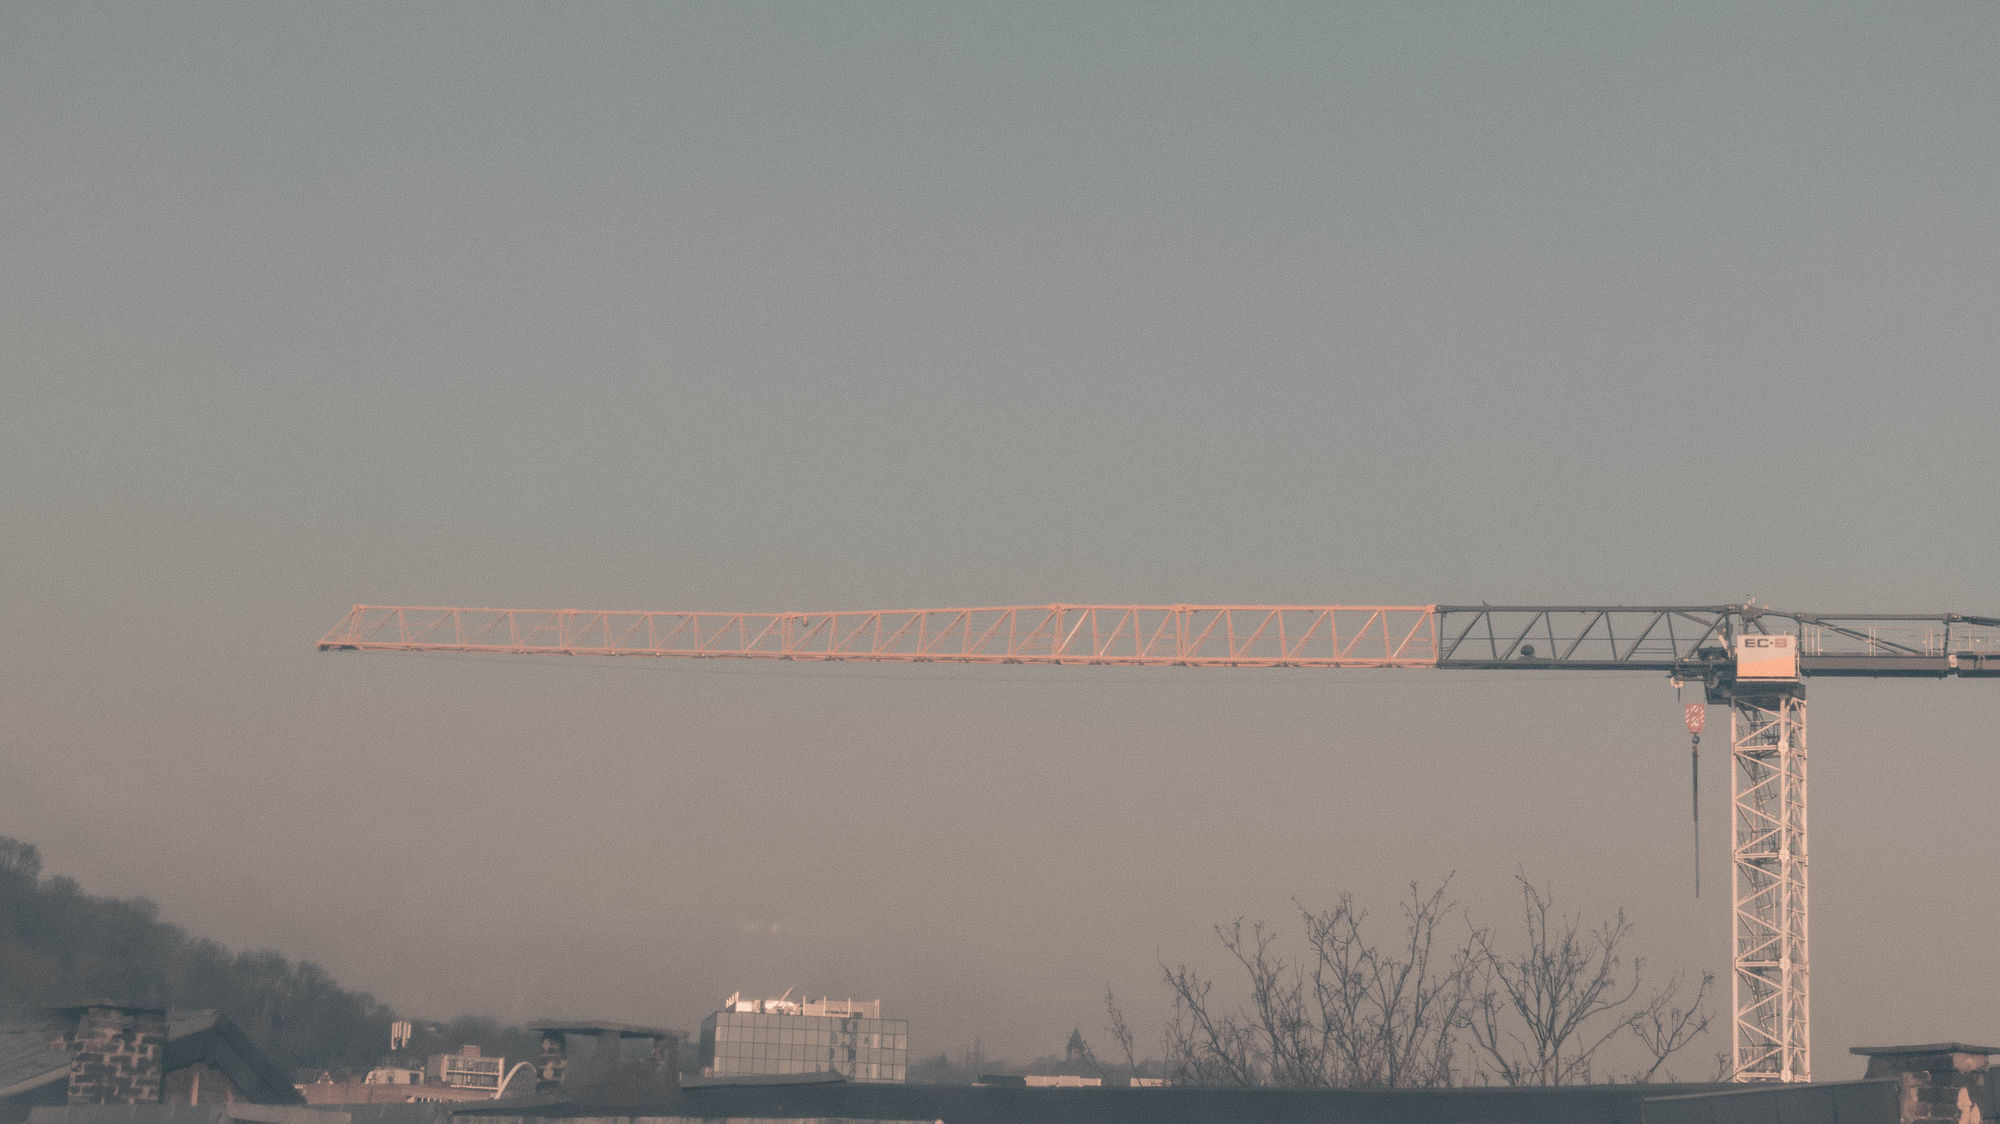
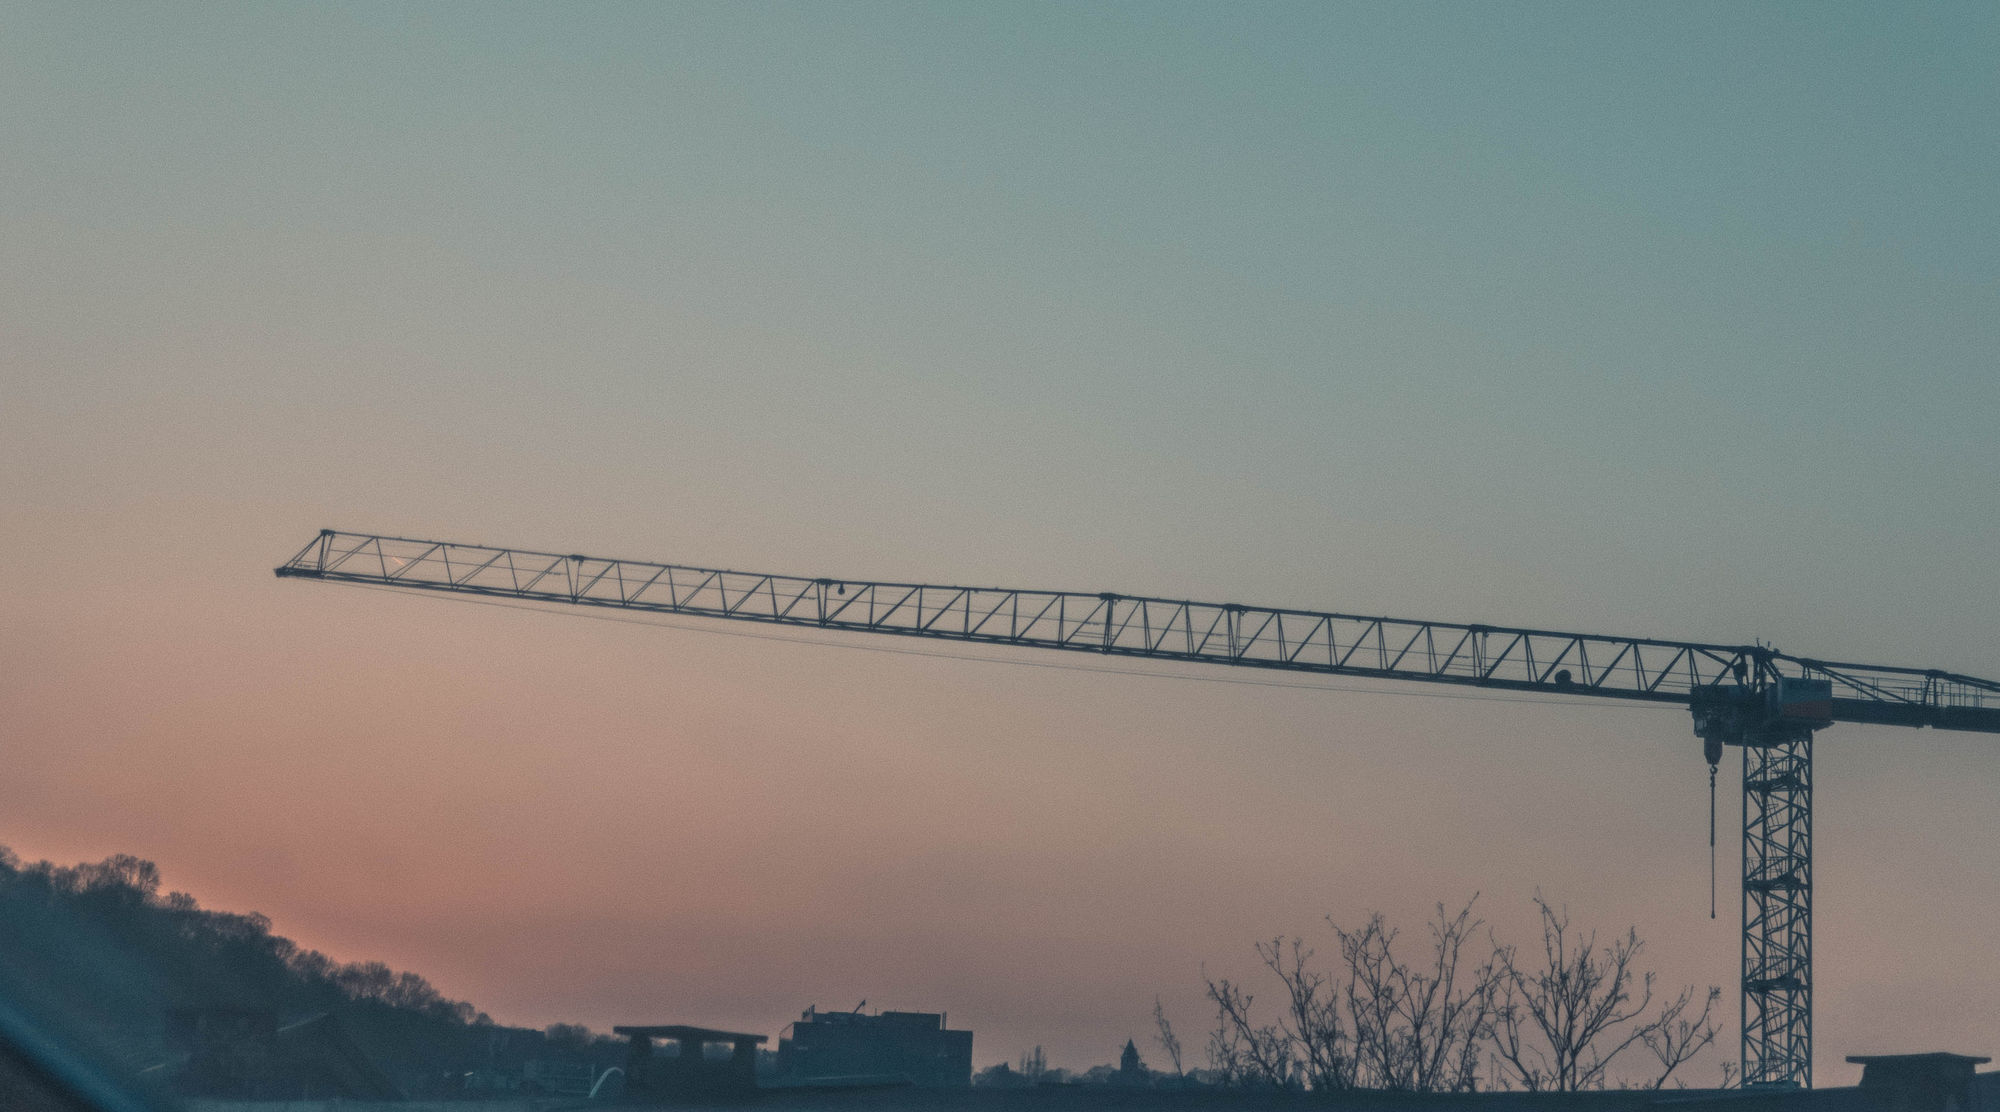
add and update bgs

diff --git a/js/builder.js b/js/builder.js
@@ -256,12 +256,14 @@ function loadCurrentBackground() {
     var current = (new Date()).getHours();
     var name;
     console.log(current);
-    if(current >= 8 && current < 10) {  name = "wakeup"; }
+    if(current >= 6 && current < 7) {  name = "sunrise"; }
+    else if(current >= 7 && current < 10) { name = "wakeup"; }
     else if(current >= 10 && current < 13) { name = "morning"; }
-    else if(current >= 13 && current < 19) { name = "day"; }
-    else if(current >= 19 && current < 22) { name = "evening"; }
+    else if(current >= 13 && current < 18) { name = "day"; }
+    else if(current >= 18 && current < 20) { name = "evening"; }
+    else if(current >= 20 && current < 22) { name = "sunset"; }
     else if(current >= 22 || current < 3) { name = "night"; }
-    else if(current >= 3 && current < 8) { name = "sleep"; }
+    else if(current >= 3 && current < 6) { name = "sleep"; }
     else {
         return;
     }

diff --git a/gulpfile.js b/gulpfile.js
@@ -1,5 +1,7 @@
  "use strict";
 
+// todo https://www.npmjs.com/package/gulp-real-favicon
+
 const gulp = require("gulp");
 const cleanCSS = require("gulp-clean-css");
 const del = require("del");
